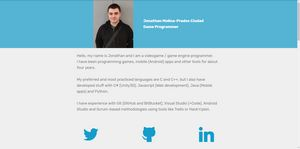
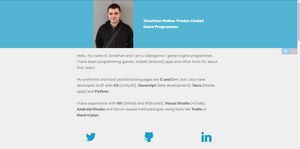
clarifying texts

diff --git a/Web/index.html b/Web/index.html
@@ -47,7 +47,7 @@
     </div>
 </section>
 
-<section class="engine"><a href="https://mobirise.info/k">develop free website</a></section><section class="header1 cid-rtVYWRZPhj" id="header16-4">
+<section class="engine"><a href="https://mobirise.info/c">free web builder</a></section><section class="header1 cid-rtVYWRZPhj" id="header16-4">
 
     
 
@@ -58,7 +58,7 @@
             <div class="col-md-10 align-center">
                 
                 
-                <p class="mbr-text pb-3 mbr-fonts-style display-5">Hello, my name is Jonathan and I am a videogame / game engine programmer. <br>I have been programming games, mobile (Android) apps and other tools for about four years.<br><br>My preferred and most practiced languages are C and C++, but I also have developed stuff with C# (Unity3D), Javacript (Web development), Java (Mobile apps) and Python.<br><br>I have experience with Git (GitHub and BitBucket), Visual Studio (+Code), Android Studio and Scrum-based methodologies using tools like Trello or Hack'n'plan.<br></p>
+                <p class="mbr-text pb-3 mbr-fonts-style display-5">Hello, my name is Jonathan and I am a videogame / game engine programmer. <br>I have been programming games, mobile (Android) apps and other tools for about four years.<br><br>My preferred and most practiced languages are <strong>C and C++</strong>, but I also have developed stuff with <strong>C#</strong> (Unity3D), <strong>Javacript</strong> (Web development), <strong>Java</strong> (Mobile apps) and <strong>Python</strong>.<br><br>I have experience with <strong>Git</strong> (GitHub and BitBucket), <strong>Visual Studio</strong> (+Code), <strong>Android Studio</strong> and Scrum-based methodologies using tools like <strong>Trello</strong> or <strong>Hack'n'plan</strong>.<br></p>
                 
             </div>
         </div>
@@ -76,7 +76,7 @@
 
             <div class="card p-3 col-12 col-md-6 col-lg-4">
                 <div class="card-img pb-3">
-                    <a href="https://twitter.com/Jony635Dev" target="_blank"><span class="mbr-iconfont socicon-twitter socicon" style="font-size: 96px;"></span></a>
+                    <a href="https://twitter.com/Jony635Dev" target="_blank"><span class="mbr-iconfont socicon-twitter socicon" style="font-size: 64px;"></span></a>
                 </div>
                 <div class="card-box">
                     <h4 class="card-title py-3 mbr-fonts-style display-5">
@@ -87,7 +87,7 @@
 
             <div class="card p-3 col-12 col-md-6 col-lg-4">
                 <div class="card-img pb-3">
-                    <a href="https://github.com/Jony635?tab=repositories" target="_blank"><span class="mbr-iconfont socicon-github socicon"></span></a>
+                    <a href="https://github.com/Jony635?tab=repositories" target="_blank"><span class="mbr-iconfont socicon-github socicon" style="font-size: 64px;"></span></a>
                 </div>
                 <div class="card-box">
                     <h4 class="card-title py-3 mbr-fonts-style display-5"><a href="https://github.com/Jony635?tab=repositories" target="_blank">
@@ -98,7 +98,7 @@
 
             <div class="card p-3 col-12 col-md-6 col-lg-4">
                 <div class="card-img pb-3">
-                    <a href="https://www.linkedin.com/in/jonathan-molina-prados-ciudad-366054129/" target="_blank"><span class="mbr-iconfont socicon-linkedin socicon"></span></a>
+                    <a href="https://www.linkedin.com/in/jonathan-molina-prados-ciudad-366054129/" target="_blank"><span class="mbr-iconfont socicon-linkedin socicon" style="font-size: 64px;"></span></a>
                 </div>
                 <div class="card-box">
                     <h4 class="card-title py-3 mbr-fonts-style display-5"><a href="https://www.linkedin.com/in/jonathan-molina-prados-ciudad-366054129/" target="_blank">
@@ -150,7 +150,7 @@
                             Kayak</h4>
                         <p class="mbr-text mbr-fonts-style display-7">The winner of the 2nd CITM Gamejam, developed by 5 people in 30 hours, using Unity3D Engine.<br><br>It consists of a 2vs2 local-multiplayer party game based on kayak races.<br><br><br><br></p>
                     </div>
-                    <div class="mbr-section-btn text-center"><a href="https://github.com/teamrocketo/Kayak/releases" class="btn btn-primary display-4" target="_blank">
+                    <div class="mbr-section-btn text-center"><a href="https://teamrocketo.github.io/Kayak/" class="btn btn-primary display-4" target="_blank">
                             Learn More
                         </a></div>
                 </div>
